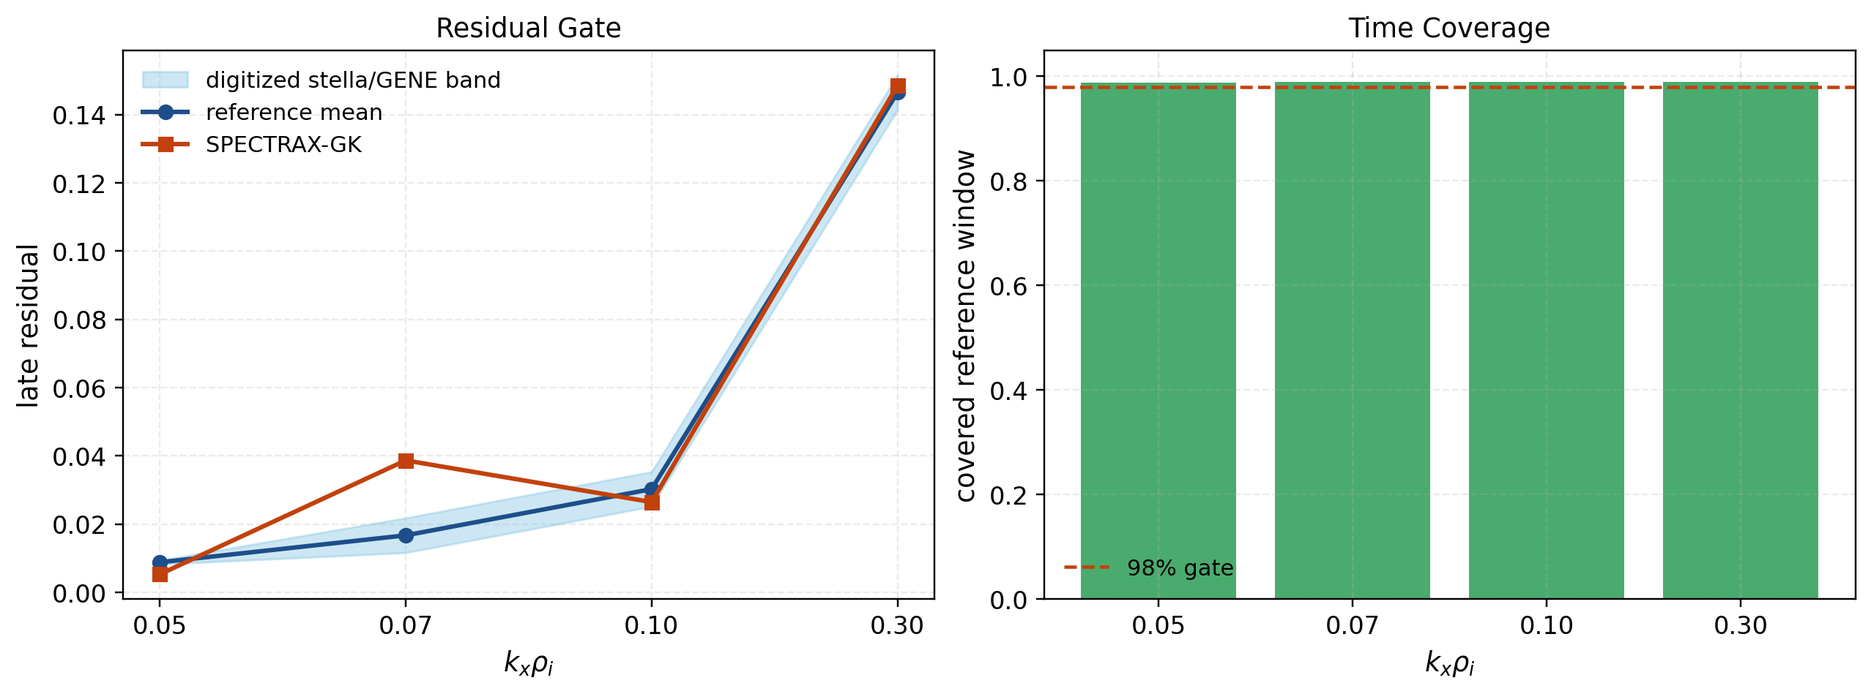
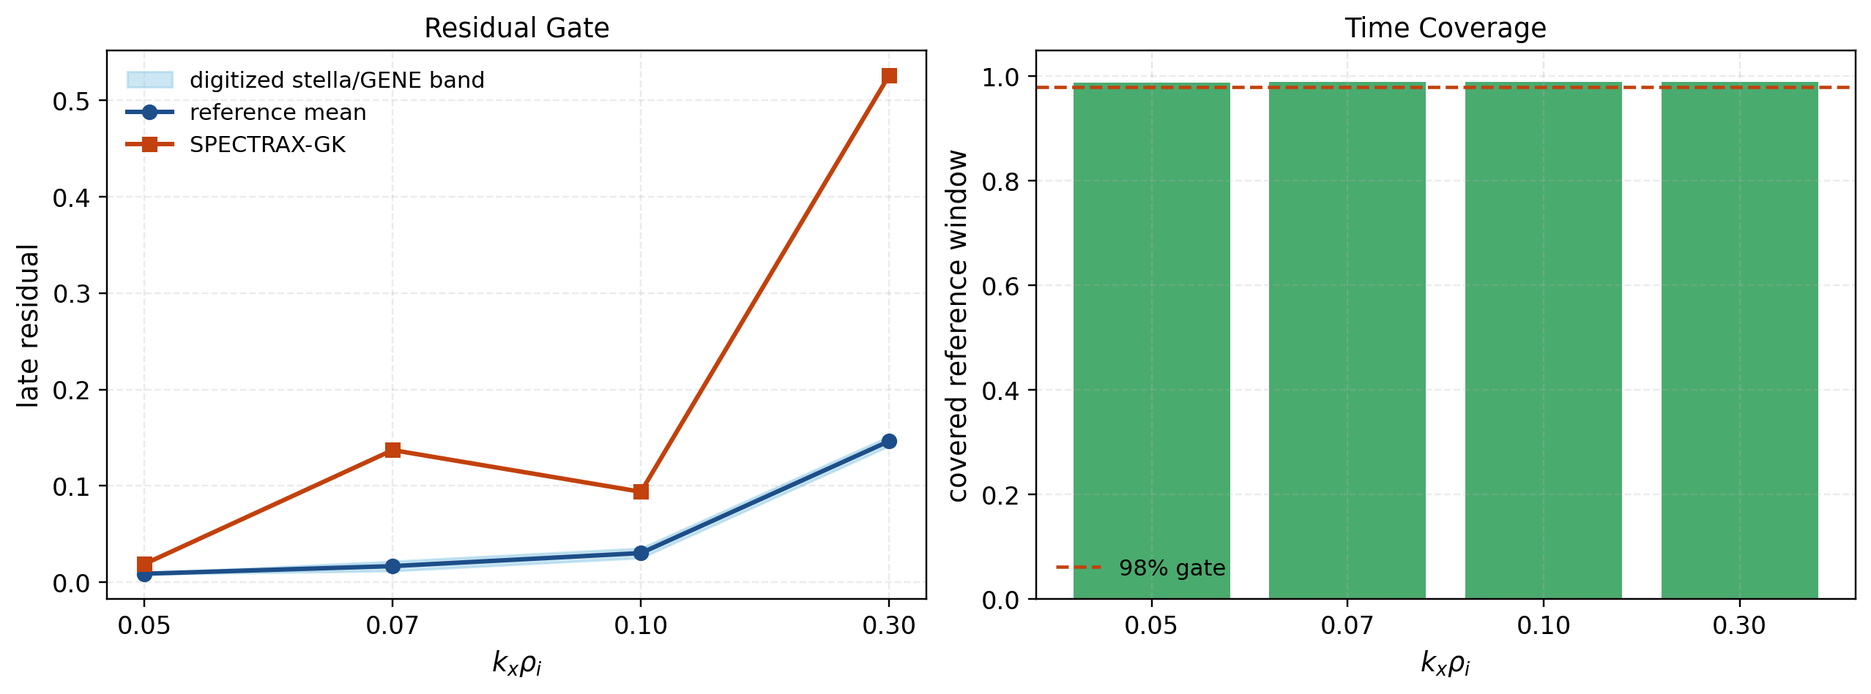
Correct W7-X zonal validation contract

diff --git a/tools/generate_w7x_zonal_response_panel.py b/tools/generate_w7x_zonal_response_panel.py
@@ -38,6 +38,7 @@ W7X_TEST4_REFERENCE = {
     "nz_reference": 512,
     "nvpar_reference": 256,
     "nmu_reference": 32,
+    "normalization": "line-averaged potential normalized to its t=0 line-average value",
 }
 
 
@@ -89,11 +90,12 @@ def _parse_args() -> argparse.Namespace:
     parser.add_argument(
         "--initial-normalization",
         choices=("init_amp", "line_first"),
-        default="init_amp",
+        default="line_first",
         help=(
-            "Reference normalization for the plotted response. The W7-X paper "
-            "normalizes the line-averaged response to the maximum initial "
-            "Gaussian potential, so the default uses init.init_amp."
+            "Reference normalization for the plotted response. The W7-X test-4 "
+            "text normalizes the line-averaged response to its t=0 value, so "
+            "the default uses the first nonzero line-average sample. init_amp "
+            "is retained for explicit normalization audits."
         ),
     )
     parser.add_argument(
@@ -114,11 +116,12 @@ def _parse_args() -> argparse.Namespace:
     parser.add_argument(
         "--time-scale",
         type=float,
-        default=2.0,
+        default=1.0,
         help=(
             "Scale applied to runtime times before plotting/extraction. "
-            "The W7-X Fig. 11 digitized axis is in the paper's t v_ti/a units; "
-            "the current VMEC runtime traces align to that axis with a factor of 2."
+            "The default is 1 because runtime samples are already interpreted "
+            "on the paper's t v_ti/a axis; non-unit values are for explicit "
+            "axis-calibration audits only."
         ),
     )
     parser.add_argument(
@@ -496,13 +499,15 @@ def main() -> int:
                     "It uses the unweighted line-averaged signed potential observable requested by the paper; "
                     "the volume-weighted Phi_zonal_mode_kxt diagnostic remains available for shaped-tokamak "
                     "and energy-consistency checks. "
-                    "Each trace is normalized to the maximum initial potential amplitude when "
-                    "--initial-normalization=init_amp, matching the published W7-X caption; "
-                    "the line_first option is retained for first-sample extraction audits. "
+                    "The paper text normalizes the line-averaged response to its t=0 value; "
+                    "therefore the default --initial-normalization=line_first follows that convention. "
+                    "The init_amp option is retained for explicit audits of the caption wording and "
+                    "the clipped initial portion of Fig. 11, but it is not the default validation contract. "
                     "The initial GAM is extracted with separate positive/negative-extrema "
                     "damping fits plus a Hilbert-phase frequency estimate over a common early-time window. "
                     "Runtime times are multiplied by the metadata time_scale before plotting and reference "
-                    "comparison so the traces use the digitized W7-X figure's t v_ti/a axis. "
+                    "comparison; the default time_scale=1 keeps the runtime axis on the paper's t v_ti/a "
+                    "axis and non-unit values are treated as calibration probes. "
                     "The default fit window cap isolates the initial GAM before the slower stellarator-specific "
                     "oscillation described in section 4.4 of the benchmark paper; this cutoff is a manuscript-policy "
                     "inference, not a quoted number from the paper itself. The metadata remains open until the "

diff --git a/tests/test_generate_w7x_zonal_response_panel.py b/tests/test_generate_w7x_zonal_response_panel.py
@@ -143,8 +143,8 @@ diagnostics = true
     assert out_png.with_suffix(".csv").exists()
     meta = json.loads(out_png.with_suffix(".json").read_text())
     assert meta["initial_policy"] == "first_abs"
-    assert meta["initial_normalization"] == "init_amp"
-    assert meta["initial_level_override"] == 1.0e-6
+    assert meta["initial_normalization"] == "line_first"
+    assert meta["initial_level_override"] is None
     assert meta["damping_method"] == "branchwise_extrema"
     assert meta["frequency_method"] == "hilbert_phase"
     assert meta["validation_status"] == "open"
@@ -152,8 +152,10 @@ diagnostics = true
     assert meta["literature_reference"]["test"] == 4
     assert meta["literature_reference"]["flux_tube"] == "bean"
     assert meta["literature_reference"]["observable"] == "unweighted line-averaged electrostatic potential"
+    assert "t=0 line-average" in meta["literature_reference"]["normalization"]
     assert "slower stellarator-specific oscillation" in meta["notes"]
-    assert "maximum initial potential amplitude" in meta["notes"]
+    assert "default --initial-normalization=line_first" in meta["notes"]
+    assert "clipped initial portion of Fig. 11" in meta["notes"]
     assert "manuscript-policy inference" in meta["notes"]
     assert "digitized-reference gate" in meta["notes"]
     assert meta["runtime"] == {
@@ -287,7 +289,7 @@ diagnostics = true
     assert seen == [(True, True, out_dir / "w7x_test4_kx070.out.nc", out_dir / "w7x_test4_kx070.out.nc")]
     meta = json.loads(out_png.with_suffix(".json").read_text())
     assert meta["runtime"]["resume_output"] is True
-    assert meta["runtime"]["time_scale"] == 2.0
+    assert meta["runtime"]["time_scale"] == 1.0
 
 
 def test_generate_w7x_zonal_response_formats_unresolved_damping() -> None:

diff --git a/tests/test_runtime_config.py b/tests/test_runtime_config.py
@@ -565,7 +565,7 @@ def test_w7x_zonal_response_vmec_example_uses_test4_contract() -> None:
     assert cfg.grid.nperiod == 4
     assert cfg.grid.Nz == 256
     assert cfg.init.gaussian_init is True
-    assert cfg.init.gaussian_width == pytest.approx(4.0)
+    assert cfg.init.gaussian_width == pytest.approx(1.0)
     assert cfg.init.init_field == "phi"
     assert cfg.physics.adiabatic_electrons is True
     assert cfg.physics.nonlinear is False

diff --git a/docs/testing.rst b/docs/testing.rst
@@ -246,23 +246,26 @@ bean-tube zonal-flow relaxation benchmark from the stella/GENE paper. The
 tool sweeps ``k_x rho_i`` over ``[0.05, 0.07, 0.10, 0.30]``. The runtime
 contract seeds the published electrostatic-potential perturbation with
 ``init_field = "phi"`` and a Gaussian profile, while the panel extracts the
-unweighted signed line-average diagnostic ``Phi_zonal_line_kxt``. For this
-paper-facing W7-X artifact, the line-average response is normalized to the
-maximum initial potential amplitude, ``init.init_amp``, matching the benchmark
-caption; the generator also keeps a ``line_first`` option for first-sample
-audits. The default early-time fit-window cap is an explicit analysis policy
-chosen to isolate the initial GAM before the slower stellarator-specific
-oscillation. The generator forces a periodic radial box for this ``k_y=0``
-zonal response so the selected ``k_x rho_i`` values match the published test-4
-targets exactly; this avoids the linked-boundary aspect-ratio override that is
-appropriate for drift-wave flux-tube runs but wrong for this radial zonal scan.
+unweighted signed line-average diagnostic ``Phi_zonal_line_kxt``. The paper
+text states that the line-average trace is normalized to its value at ``t=0``;
+the caption also mentions the maximum value, but the source figure is clipped
+at the initial point. The paper-facing default is therefore
+``--initial-normalization=line_first`` and ``--time-scale=1``. The ``init_amp``
+normalization and non-unit time-scale options are retained as explicit audits,
+not as the validation contract. The default early-time fit-window cap is an
+explicit analysis policy chosen to isolate the initial GAM before the slower
+stellarator-specific oscillation. The generator forces a periodic radial box
+for this ``k_y=0`` zonal response so the selected ``k_x rho_i`` values match
+the published test-4 targets exactly; this avoids the linked-boundary
+aspect-ratio override that is appropriate for drift-wave flux-tube runs but
+wrong for this radial zonal scan.
 
 The current frozen VMEC-backed artifact lives at
 ``docs/_static/w7x_zonal_response_panel.png`` with strict JSON metadata at
 ``docs/_static/w7x_zonal_response_panel.json``. It is a long-window run:
 ``k_x rho_i=0.05`` reaches ``t≈3460`` and the other three wavelengths reach
-``t≈1980``. After the paper-faithful normalization, the late residuals are
-about ``0.0053``, ``0.0387``, ``0.0265``, and ``0.1484`` for
+``t≈1980``. After the paper-faithful line-first normalization, the late
+residuals are about ``0.0189``, ``0.137``, ``0.0938``, and ``0.526`` for
 ``k_x rho_i = 0.05``, ``0.07``, ``0.10``, and ``0.30``.
 ``tools/digitize_w7x_zonal_reference.py`` now extracts the stella/GENE Fig. 11
 main traces and inset residual levels from the arXiv source ``figs/ZF.pdf``.
@@ -273,17 +276,17 @@ The resulting reference artifacts are
 ``docs/_static/w7x_zonal_reference_digitized.png``. The comparison contract is
 implemented in ``tools/compare_w7x_zonal_reference.py`` and materialized at
 ``docs/_static/w7x_zonal_reference_compare.png`` with JSON metadata in
-``docs/_static/w7x_zonal_reference_compare.json``. The long-window artifact now
-passes every residual and time-coverage gate against the digitized stella/GENE
-reference. The lane remains open only because the late-window envelope
-standard deviations, roughly ``0.341``, ``0.0778``, ``0.102``, and ``0.0367``,
-are still larger than the digitized reference envelope of order ``2.5e-3``.
-That is tracked as a velocity-space recurrence / closure issue, with two
-resolved comparison-contract updates: a ``gaussian_width=4`` probe matches the
-digitized initial line-average level much better than the earlier
-``gaussian_width=1`` setting, and the W7-X plotting tool now records an
-explicit ``time_scale=2`` that maps runtime samples onto the digitized
-``t v_ti/a`` axis before plotting/reference comparison.
+``docs/_static/w7x_zonal_reference_compare.json``. The current long-window
+artifact passes the time-coverage gate for all four wavelengths, but the
+residual gate only passes at ``k_x rho_i=0.05`` and the late-envelope gate
+fails by orders of magnitude. A previous ``init_amp``-normalized audit happened
+to pass residual values for all four wavelengths, but that comparison is no
+longer treated as a validation result because it does not follow the paper text
+normalization. A later ``gaussian_width=4`` probe matched the clipped apparent
+initial level of Fig. 11 better than the tracked width-1 profile, but the
+source figure shows that the apparent ``0.8`` start is a plot-limit artifact,
+not a reliable normalization target. The tracked TOML therefore keeps
+``gaussian_width=1``, matching the source expression ``exp[-(z-z0)^2]``.
 
 The runtime path now has two safeguards for this lane. First, strided nonlinear
 diagnostics always retain the final step, so long traces do not silently stop
@@ -303,24 +306,21 @@ with ``Nl=16``, ``Nm=64``, ``dt=0.05`` then restart-continued the
 ``k_x rho_i=0.07`` trace to ``t≈100`` with finite diagnostics and nonzero
 signed line/mode samples across the post-restart tail. A full four-wavelength
 refresh at the same moment resolution also reached ``t≈100`` with finite,
-nonzero signed traces for every target ``k_x rho_i``. A width scan showed that
-``gaussian_width=4`` gives an initial ``k_x rho_i=0.07`` line average of about
-``0.827`` versus the digitized stella/GENE start near ``0.89``; however, the
-same high-moment run decayed to about ``0.323`` by raw runtime ``t≈50`` and
-slightly negative by raw runtime ``t≈100``. Comparing the same trace on the
-scaled reference axis, ``t_ref≈2 t_runtime``, reduces the ``k_x rho_i=0.07``
-early-window mean absolute error from about ``0.251`` to about ``0.043``. The
-remaining open item is therefore not restart diagnostic continuity; it is the
-longer-time W7-X zonal damping/closure behavior after the now-explicit
-initializer and time-axis conventions are applied.
+nonzero signed traces for every target ``k_x rho_i``. A width-4 full-window
+low-moment audit reached the digitized windows but flipped the residual sign at
+``k_x rho_i=0.07``, ``0.10``, and ``0.30``. The remaining open item is
+therefore not restart diagnostic continuity; it is the W7-X zonal damping,
+closure, and velocity-space recurrence behavior under the paper-facing
+line-first normalization.
 
 .. figure:: _static/w7x_zonal_response_panel.png
    :alt: W7-X high-mirror bean-tube zonal-flow response panel
 
    W7-X high-mirror bean-tube zonal-flow response for the stella/GENE test-4
-   target ``k_x rho_i`` values. The response is normalized to the maximum
-   initial Gaussian potential. The red dashed line is the late-window residual
-   estimate and the shaded band is the common initial-GAM extraction window.
+   target ``k_x rho_i`` values. The response is normalized to the first
+   nonzero line-average sample, following the paper text. The red dashed line
+   is the late-window residual estimate and the shaded band is the common
+   initial-GAM extraction window.
 
 .. figure:: _static/w7x_zonal_reference_digitized.png
    :alt: Digitized W7-X test-4 stella and GENE zonal-flow reference traces
@@ -333,10 +333,9 @@ initializer and time-axis conventions are applied.
 .. figure:: _static/w7x_zonal_reference_compare.png
    :alt: Current W7-X zonal SPECTRAX comparison against digitized references
 
-   Current W7-X zonal comparison gate. The residual and time-coverage gates now
-   pass for all four wavelengths; the overall gate remains open because the
-   late-window envelope has more residual oscillatory content than the digitized
-   stella/GENE traces.
+   Current W7-X zonal comparison gate. Time coverage passes for all four
+   wavelengths, but the paper-normalized residuals and late-window envelopes
+   remain open validation issues.
 
 Diffrax and nonlinear smoke tests
 ---------------------------------

diff --git a/docs/manuscript_figures.rst b/docs/manuscript_figures.rst
@@ -45,7 +45,7 @@ Core Validation Figures
    * - Zonal-flow / GAM response panel
      - ``tools/plot_zonal_flow_response.py``, ``tools/plot_zonal_flow_response_from_output.py``, ``tools/generate_miller_zonal_response_pilot.py``, ``tools/generate_w7x_zonal_response_panel.py``, ``tools/digitize_w7x_zonal_reference.py``, and ``tools/compare_w7x_zonal_reference.py``
      - Open
-     - should combine shaped-tokamak Rosenbluth-Hinton-style residuals with W7-X residual/damping envelopes using one figure convention; use signed ``Phi_zonal_mode_kxt`` or case-specific signed line averages for publication claims and keep ``Phi2_zonal_t`` only as an intermediate cross-check. The current Merlo Case-III artifact is ``docs/_static/miller_zonal_response_pilot.png`` from the initial-density setup at ``Nz=32``, ``Nl=4``, ``Nm=24``, ``dt=0.005``, and ``t≈60``. With Rosenbluth-Hinton first-sample normalization it gives ``residual≈0.192`` against the Merlo et al. Figs. 12/16 read-off of about ``0.19``; a literature-faithful common fit window ``t≈30`` with separate positive/negative-extrema damping fits gives ``γ_GAM R0 / v_i≈-0.176`` against the paper-scale read-off near ``-0.17``; and Hilbert-phase frequency extraction on that same window gives ``ω_GAM R0 / v_i≈2.20`` against the paper-scale read-off near ``2.24``. A higher-moment audit lowers the recurrence ratio but over-damps the GAM, while weak hypercollision scans are effectively inert, so the frozen Merlo artifact remains on the current ``Nm=24`` baseline. The W7-X side now uses the potential initializer, line-average observable, and initial-Gaussian-maximum normalization. The long-window W7-X artifact is ``docs/_static/w7x_zonal_response_panel.png``; it reaches the digitized Fig. 11 windows, and ``docs/_static/w7x_zonal_reference_compare.json`` now passes the residual and time-coverage gates for all four wavelengths. A newer high-moment four-wavelength audit under ``tools_out/zonal_response/w7x_publication_nl16_nm64_dt005_t100`` verifies finite signed traces to ``t≈100`` after restart-continuation fixes. The tracked W7-X TOML now uses ``gaussian_width=4`` because it matches the digitized initial line-average level better than the earlier width-1 setup, and the panel generator records ``time_scale=2`` to place runtime traces on the digitized ``t v_ti/a`` reference axis. The lane remains open pending the longer-time velocity-space recurrence / closure fix after these explicit comparison conventions are applied.
+     - should combine shaped-tokamak Rosenbluth-Hinton-style residuals with W7-X residual/damping envelopes using one figure convention; use signed ``Phi_zonal_mode_kxt`` or case-specific signed line averages for publication claims and keep ``Phi2_zonal_t`` only as an intermediate cross-check. The current Merlo Case-III artifact is ``docs/_static/miller_zonal_response_pilot.png`` from the initial-density setup at ``Nz=32``, ``Nl=4``, ``Nm=24``, ``dt=0.005``, and ``t≈60``. With Rosenbluth-Hinton first-sample normalization it gives ``residual≈0.192`` against the Merlo et al. Figs. 12/16 read-off of about ``0.19``; a literature-faithful common fit window ``t≈30`` with separate positive/negative-extrema damping fits gives ``γ_GAM R0 / v_i≈-0.176`` against the paper-scale read-off near ``-0.17``; and Hilbert-phase frequency extraction on that same window gives ``ω_GAM R0 / v_i≈2.20`` against the paper-scale read-off near ``2.24``. A higher-moment audit lowers the recurrence ratio but over-damps the GAM, while weak hypercollision scans are effectively inert, so the frozen Merlo artifact remains on the current ``Nm=24`` baseline. The W7-X side now uses the potential initializer, signed line-average observable, paper-facing line-first normalization, and no hidden time-axis scaling. The tracked long-window W7-X artifact is ``docs/_static/w7x_zonal_response_panel.png``; it reaches the digitized Fig. 11 windows, but ``docs/_static/w7x_zonal_reference_compare.json`` remains open because residuals fail at ``k_x rho_i=0.07``, ``0.10``, and ``0.30`` and the late envelopes are much larger than the digitized stella/GENE traces. A newer high-moment four-wavelength audit under ``tools_out/zonal_response/w7x_publication_nl16_nm64_dt005_t100`` verifies finite signed traces to ``t≈100`` after restart-continuation fixes. The tracked W7-X TOML keeps ``gaussian_width=1`` because the benchmark source writes the initializer as ``exp[-(z-z0)^2]``; wider profiles and non-unit time scales are retained only as audits. The lane remains open pending the W7-X damping/closure and velocity-space recurrence fix under the paper-facing convention.
    * - W7-X fluctuation-spectrum panel
      - dedicated script to add
      - Open
@@ -101,9 +101,9 @@ caption:
 Open Issues Before Drafting
 ---------------------------
 
-- close the W7-X zonal-flow late-envelope mismatch now that the long-window
-  Gaussian-potential artifact passes the residual and time-coverage gates
-  against digitized stella/GENE traces
+- close the W7-X zonal-flow residual and late-envelope mismatch under the
+  paper-facing line-first normalization; current time coverage is sufficient,
+  but residuals fail at three wavelengths and late envelopes remain too large
 - either close the long-time recurrence follow-up for the shaped-tokamak
   Rosenbluth-Hinton / GAM response benchmark or explicitly scope publication
   claims to the benchmark-scale pre-recurrence metrics now frozen in the

diff --git a/docs/verification_matrix.rst b/docs/verification_matrix.rst
@@ -168,8 +168,8 @@ Stellarator Linear
    * - W7-X zonal flow
      - residual level, damping envelope
      - stella/GENE benchmark paper + zonal-flow literature
-     - Open; residual/time-coverage gates closed, late-envelope gate open
-     - a case-specific runtime/tool path exists through ``examples/benchmarks/runtime_w7x_zonal_response_vmec.toml`` and ``tools/generate_w7x_zonal_response_panel.py``. The runtime now supports the paper-faithful ``init_field="phi"`` Gaussian potential initializer and writes both the older volume-weighted ``Phi_zonal_mode_kxt`` diagnostic and the W7-X line-average ``Phi_zonal_line_kxt`` observable. The frozen VMEC-backed artifact now lives at ``docs/_static/w7x_zonal_response_panel.png`` with metadata in ``docs/_static/w7x_zonal_response_panel.json`` and uses the maximum initial Gaussian potential as the published normalization. The stella/GENE Fig. 11 reference traces and inset residuals are digitized by ``tools/digitize_w7x_zonal_reference.py`` into ``docs/_static/w7x_zonal_reference_digitized.csv`` and ``docs/_static/w7x_zonal_reference_digitized_residuals.csv``. ``tools/compare_w7x_zonal_reference.py`` writes the residual/time-coverage/envelope artifact ``docs/_static/w7x_zonal_reference_compare.json``. The current SPECTRAX artifact enforces the intended test-4 ``k_x rho_i`` values ``[0.05, 0.07, 0.10, 0.30]`` with a periodic radial box for the ``k_y=0`` zonal run, reaches ``t≈3460`` for ``k_x rho_i=0.05`` and ``t≈1980`` for the other three wavelengths, and passes every residual and time-coverage gate against the digitized stella/GENE reference. The remaining open gate is the late-window envelope standard deviation, so the next closure step is a velocity-space recurrence / moment-closure audit rather than a geometry or normalization fix
+     - Open; time coverage closed, residual and late-envelope gates open
+     - a case-specific runtime/tool path exists through ``examples/benchmarks/runtime_w7x_zonal_response_vmec.toml`` and ``tools/generate_w7x_zonal_response_panel.py``. The runtime now supports the paper-facing ``init_field="phi"`` Gaussian potential initializer and writes both the older volume-weighted ``Phi_zonal_mode_kxt`` diagnostic and the W7-X line-average ``Phi_zonal_line_kxt`` observable. The frozen VMEC-backed artifact now lives at ``docs/_static/w7x_zonal_response_panel.png`` with metadata in ``docs/_static/w7x_zonal_response_panel.json`` and uses line-first normalization, following the paper text. The stella/GENE Fig. 11 reference traces and inset residuals are digitized by ``tools/digitize_w7x_zonal_reference.py`` into ``docs/_static/w7x_zonal_reference_digitized.csv`` and ``docs/_static/w7x_zonal_reference_digitized_residuals.csv``. ``tools/compare_w7x_zonal_reference.py`` writes the residual/time-coverage/envelope artifact ``docs/_static/w7x_zonal_reference_compare.json``. The current SPECTRAX artifact enforces the intended test-4 ``k_x rho_i`` values ``[0.05, 0.07, 0.10, 0.30]`` with a periodic radial box for the ``k_y=0`` zonal run and reaches ``t≈3460`` for ``k_x rho_i=0.05`` and ``t≈1980`` for the other three wavelengths. Under the paper-facing normalization, residuals fail at ``k_x rho_i=0.07``, ``0.10``, and ``0.30`` and late envelopes fail for all wavelengths, so the next closure step is a velocity-space recurrence / moment-closure audit plus a state-level comparison against stella/GENE/GX conventions rather than a documentation-only change
    * - W7-X fluctuation spectra
      - density and zonal-flow frequency spectra
      - W7-X Doppler-reflectometry comparison paper

diff --git a/docs/roadmap.rst b/docs/roadmap.rst
@@ -79,21 +79,22 @@ Near-term physics priorities
 
 The next physics lanes should be closed in this order:
 
-1. W7-X zonal-response late-envelope closure. The VMEC-backed SPECTRAX-GK
-   artifact now uses the paper-faithful potential initializer, signed
-   line-average observable, and initial-Gaussian-maximum normalization, and the
-   long-window comparison passes the digitized stella/GENE residual and
-   time-coverage gates for all four wavelengths. The remaining open item is the
-   excessive late-window envelope after applying the explicit comparison
-   contracts: ``gaussian_width=4`` for the initial potential and
-   ``time_scale=2`` for the digitized ``t v_ti/a`` reference axis. The runtime
-   now preserves final samples under strided diagnostics, aborts checkpointed
-   artifact runs on the first non-finite diagnostic chunk, and preserves signed
-   zonal line/mode diagnostics across external restart continuation. A
-   four-wavelength ``Nl=16``, ``Nm=64``, ``dt=0.05`` refresh reached raw
-   runtime ``t≈100`` with finite signed traces, so longer restart-continued
-   W7-X traces can now be used to study the remaining physics/numerics issue
-   directly.
+1. W7-X zonal-response residual and late-envelope closure. The VMEC-backed
+   SPECTRAX-GK artifact now uses the paper-facing potential initializer,
+   signed line-average observable, line-first normalization, and no hidden
+   time-axis scaling. The long-window comparison reaches the digitized
+   stella/GENE time windows for all four wavelengths, but residuals fail at
+   ``k_x rho_i=0.07``, ``0.10``, and ``0.30`` and the late envelopes are much
+   larger than the digitized traces. The tracked TOML keeps
+   ``gaussian_width=1`` because the benchmark source writes the initializer as
+   ``exp[-(z-z0)^2]``; wider profiles and non-unit time scales are explicit
+   audits only. The runtime now preserves final samples under strided
+   diagnostics, aborts checkpointed artifact runs on the first non-finite
+   diagnostic chunk, and preserves signed zonal line/mode diagnostics across
+   external restart continuation. A four-wavelength ``Nl=16``, ``Nm=64``,
+   ``dt=0.05`` refresh reached raw runtime ``t≈100`` with finite signed traces,
+   so longer restart-continued W7-X traces can now be used to study the
+   remaining physics/numerics issue directly.
 2. Tighten the now-materialized windowed nonlinear-statistics panel beyond the current ``0.10`` release gate where the literature/reference windows justify stricter tolerances.
 3. W7-X multi-flux-tube ITG/TEM extension and fluctuation-spectrum lane.
 4. Shaped multispecies tokamak linear lane.
